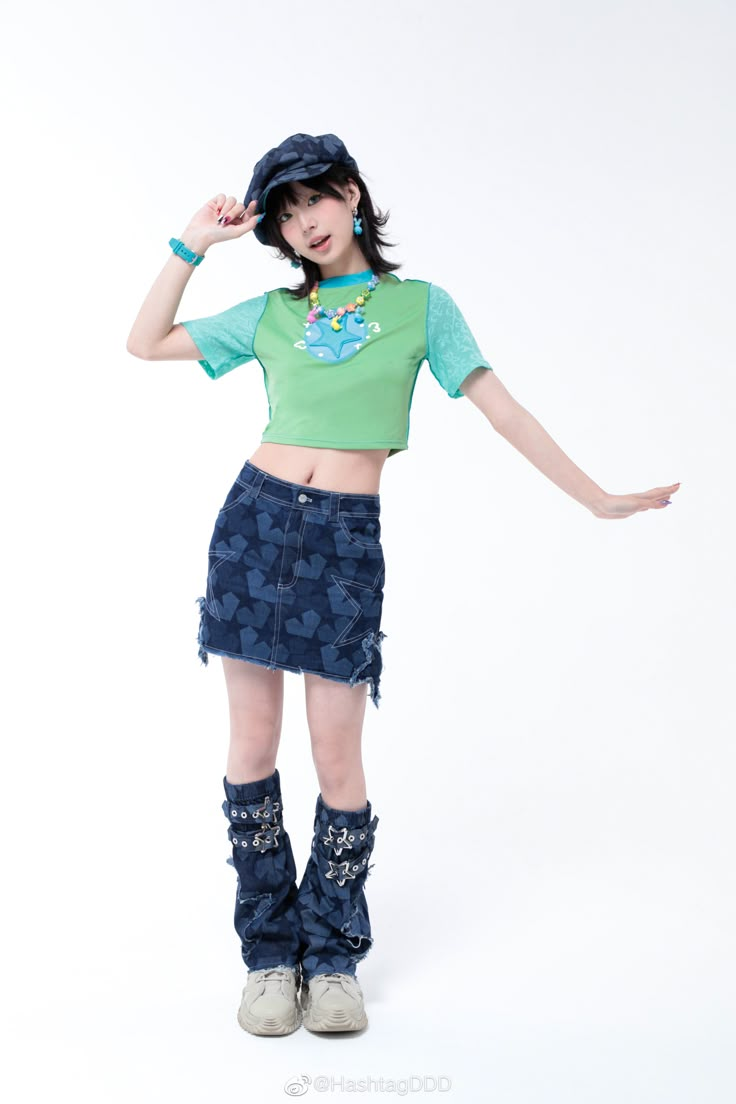
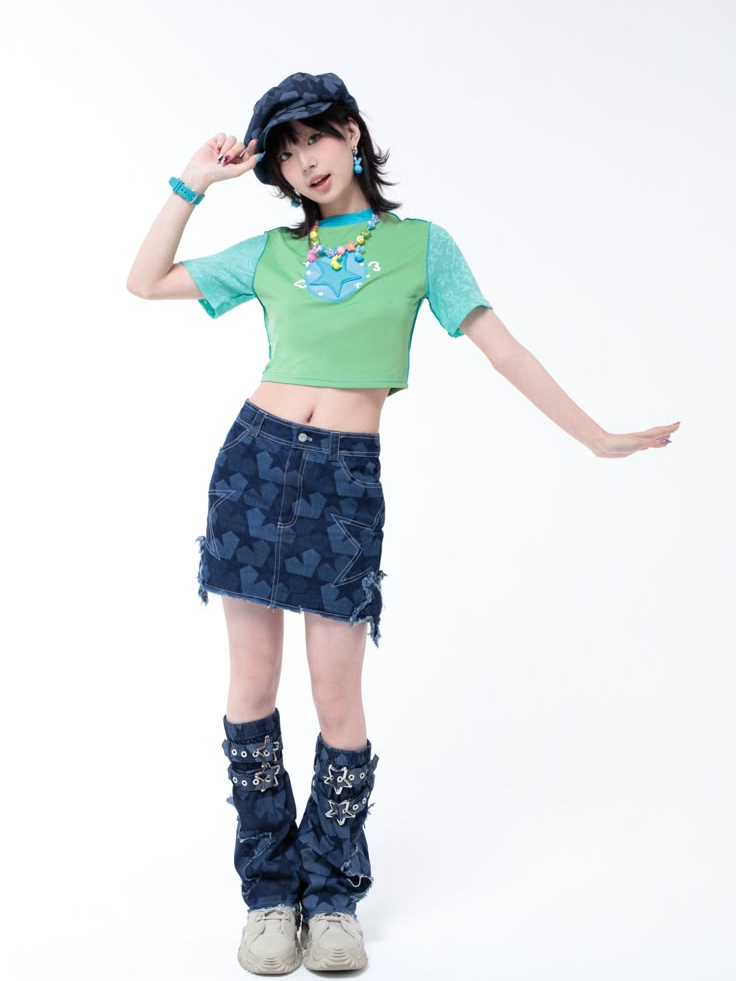
사진 추가

Changed region(s): [[0.1562, 0.0612, 0.9375, 1.0]]

diff --git a/src/components/ImageList.tsx b/src/components/ImageList.tsx
@@ -88,6 +88,15 @@ const clothList = [
 const modelList = [
     { id: 1, name: '남자', category: '모델', image: 'man01.png' },
     { id: 2, name: '여자', category: '모델', image: 'woman01.png' },
+    { id: 3, name: '카리나', category: '모델', image: 'karina.png' },
+    { id: 4, name: '카리나2', category: '모델', image: 'karina2.png' },
+    { id: 5, name: '윈터', category: '모델', image: 'winter.png' },
+    { id: 6, name: '윈터2', category: '모델', image: 'winter2.png' },
+    { id: 7, name: '장원영', category: '모델', image: 'wonyeong.png' },
+    { id: 8, name: '일론머스크', category: '모델', image: 'person.png' },
+    { id: 8, name: '모델1', category: '모델', image: 'person3.png' },
+    { id: 9, name: '모델2', category: '모델', image: 'person4.png' },
+    { id: 10, name: '모델3', category: '모델', image: 'person5.png' },
 ];
 
 type ImageListProps = {
